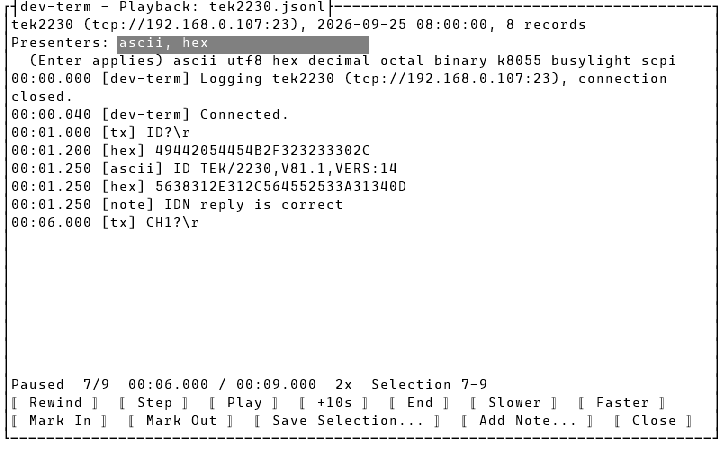
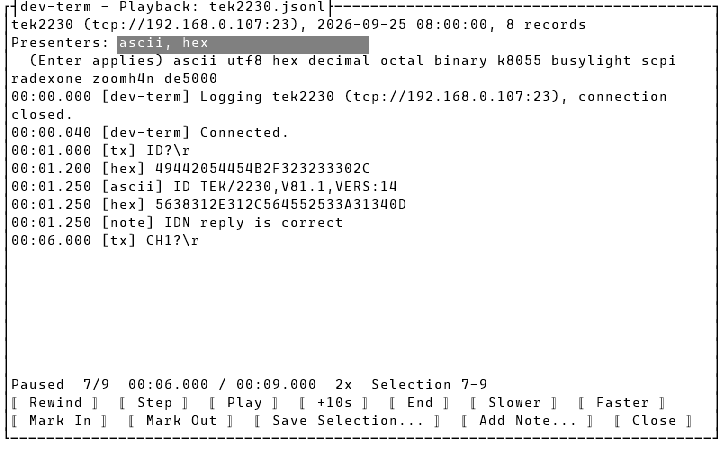
Radex One: add Reset Accumulated command; fix TUI playback layout and WPF combobox test
Adds RadexOneCommand.ResetAccumulated (0x0803), discovered from a user-captured
trace not present in the original reverse-engineering doc. Wired end-to-end
(framer, codec, decoder, control surface, UI button) with 5 new checksum-verified
unit tests (27 total).

Also fixes two unrelated test failures found while verifying the above:
- PlaybackMode's output Editor used a literal Y offset instead of Pos.Bottom(availableLabel),
  which broke once the presenters label grew long enough to wrap to two lines.
- DeviceProfilesWindowTests still asserted the old DisplayMemberPath property after an
  earlier change switched the ports combobox to an ItemTemplate to fix a WPF layout clip.

Documents both gotchas in CLAUDE.md, updates TODO.md and the radex-one-protocol.md proposal,
and adds docs/changes/2026-09-26.md.

Changed region(s): [[0.0, 0.1556, 0.9472, 0.56]]

diff --git a/src/DevTerm.Devices.RadexOne/RadexOneControlSurface.cs b/src/DevTerm.Devices.RadexOne/RadexOneControlSurface.cs
@@ -10,8 +10,8 @@ namespace DevTerm.Devices.RadexOne;
 /// <see cref="Session"/>'s live serial connection (2400 8N1, no handshake — real-hardware confirmed
 /// 2026-09-25 on COM8), per docs/design/proposals/radex-one-protocol.md. The device is a plain
 /// virtual COM port; there is no HID report wrapping (an earlier "confirmed directly" HID assumption
-/// in that doc was wrong). "readData"/"readSerialVersion"/"readSettings" are one-shot queries built
-/// via <see cref="RadexOneExtensionCodec.BuildQuery"/>; their replies arrive asynchronously through
+/// in that doc was wrong). "readData"/"readSerialVersion"/"readSettings"/"resetAccumulated" are
+/// one-shot queries built via <see cref="RadexOneExtensionCodec.BuildQuery"/>; their replies arrive asynchronously through
 /// <see cref="RadexOneDecoder"/> on the session's normal output path, not through this surface.
 /// "alarmMode"/"threshold" only mutate local state; "writeSettings" is the only command that sends a
 /// Write Settings request, and sends it three times in a row per the proposal's documented "must be
@@ -61,6 +61,8 @@ public sealed class RadexOneControlSurface : IControlSurface, ICommandPreview
                 return SendQueryAsync(RadexOneCommand.ReadSerialVersion, cancellationToken);
             case "readSettings":
                 return SendQueryAsync(RadexOneCommand.ReadSettings, cancellationToken);
+            case "resetAccumulated":
+                return SendQueryAsync(RadexOneCommand.ResetAccumulated, cancellationToken, word: 0x0001);
             case "writeSettings":
                 return SendWriteSettingsAsync(cancellationToken);
             default:
@@ -78,14 +80,15 @@ public sealed class RadexOneControlSurface : IControlSurface, ICommandPreview
             "readData" => PreviewQuery(RadexOneCommand.ReadData),
             "readSerialVersion" => PreviewQuery(RadexOneCommand.ReadSerialVersion),
             "readSettings" => PreviewQuery(RadexOneCommand.ReadSettings),
+            "resetAccumulated" => PreviewQuery(RadexOneCommand.ResetAccumulated, word: 0x0001),
             "writeSettings" => PreviewWriteSettings(),
             _ => null,
         };
     }
 
-    private async Task SendQueryAsync(ushort commandType, CancellationToken cancellationToken)
+    private async Task SendQueryAsync(ushort commandType, CancellationToken cancellationToken, ushort word = 0x000C)
     {
-        var report = BuildQueryReport(commandType, TakePacketNumber());
+        var report = BuildQueryReport(commandType, TakePacketNumber(), word);
         await _session.SendAsync(report, cancellationToken).ConfigureAwait(false);
     }
 
@@ -105,11 +108,11 @@ public sealed class RadexOneControlSurface : IControlSurface, ICommandPreview
         }
     }
 
-    private string PreviewQuery(ushort commandType)
+    private string PreviewQuery(ushort commandType, ushort word = 0x000C)
     {
         lock (_stateLock)
         {
-            return CommandPreviewFormat.ToHex(BuildQueryReport(commandType, _nextPacketNumber));
+            return CommandPreviewFormat.ToHex(BuildQueryReport(commandType, _nextPacketNumber, word));
         }
     }
 
@@ -122,8 +125,8 @@ public sealed class RadexOneControlSurface : IControlSurface, ICommandPreview
         }
     }
 
-    private static byte[] BuildQueryReport(ushort commandType, int packetNumber) =>
-        RadexOneFramer.BuildRequest((ushort)packetNumber, RadexOneExtensionCodec.BuildQuery(commandType));
+    private static byte[] BuildQueryReport(ushort commandType, int packetNumber, ushort word = 0x000C) =>
+        RadexOneFramer.BuildRequest((ushort)packetNumber, RadexOneExtensionCodec.BuildQuery(commandType, word));
 
     private int TakePacketNumber()
     {

diff --git a/src/DevTerm.Wpf/DeviceProfilesWindow.xaml.cs b/src/DevTerm.Wpf/DeviceProfilesWindow.xaml.cs
@@ -91,14 +91,18 @@ public partial class DeviceProfilesWindow : Window
         // The detected-device pickers stay hand-built, real WPF bindings to the view model's rich
         // device lists (a port's description-bearing Display over its Name; a live-filtered HID/USBTMC
         // list whose selection survives filtering) - the generic form places, labels and shows/hides
-        // them with their transport like every other field.
-        DetectedPortsBox = new ComboBox { DisplayMemberPath = nameof(SerialPortOption.Display), SelectedValuePath = nameof(SerialPortOption.Name) };
+        // them with their transport like every other field. ItemTemplate (not DisplayMemberPath) so a
+        // real device's long description (e.g. "COM3 — Prolific USB-to-Serial Comm Port") ellipsizes
+        // with a tooltip instead of a hard WPF layout clip - confirmed live: a genuine attached USB-
+        // serial adapter's description overflowed the field column and failed UiLayoutReviewTests'
+        // clip check.
+        DetectedPortsBox = new ComboBox { SelectedValuePath = nameof(SerialPortOption.Name), ItemTemplate = TrimmedDisplayTemplate(nameof(SerialPortOption.Display)) };
         DetectedPortsBox.SetBinding(ItemsControl.ItemsSourceProperty, new Binding(nameof(ConnectionEditorViewModel.SerialPortOptions)));
         DetectedPortsBox.SetBinding(Selector.SelectedValueProperty, new Binding(nameof(ConnectionEditorViewModel.SelectedSerialPort)));
-        DetectedHidDevicesBox = new ComboBox { DisplayMemberPath = nameof(HidDeviceOption.Display) };
+        DetectedHidDevicesBox = new ComboBox { ItemTemplate = TrimmedDisplayTemplate(nameof(HidDeviceOption.Display)) };
         DetectedHidDevicesBox.SetBinding(ItemsControl.ItemsSourceProperty, new Binding(nameof(ConnectionEditorViewModel.HidDeviceOptions)));
         DetectedHidDevicesBox.SetBinding(Selector.SelectedItemProperty, new Binding(nameof(ConnectionEditorViewModel.SelectedHidDevice)));
-        DetectedUsbtmcDevicesBox = new ComboBox { DisplayMemberPath = nameof(UsbtmcDeviceOption.Display) };
+        DetectedUsbtmcDevicesBox = new ComboBox { ItemTemplate = TrimmedDisplayTemplate(nameof(UsbtmcDeviceOption.Display)) };
         DetectedUsbtmcDevicesBox.SetBinding(ItemsControl.ItemsSourceProperty, new Binding(nameof(ConnectionEditorViewModel.UsbtmcDeviceOptions)));
         DetectedUsbtmcDevicesBox.SetBinding(Selector.SelectedItemProperty, new Binding(nameof(ConnectionEditorViewModel.SelectedUsbtmcDevice)));
 
@@ -235,5 +239,15 @@ public partial class DeviceProfilesWindow : Window
         {
             ViewModel.ImportExportPath = dialog.FileName;
         }
+    }
+
+    private static DataTemplate TrimmedDisplayTemplate(string displayPath)
+    {
+        var text = new FrameworkElementFactory(typeof(TextBlock));
+        var binding = new Binding(displayPath);
+        text.SetBinding(TextBlock.TextProperty, binding);
+        text.SetValue(TextBlock.TextTrimmingProperty, TextTrimming.CharacterEllipsis);
+        text.SetBinding(TextBlock.ToolTipProperty, binding);
+        return new DataTemplate { VisualTree = text };
     }
 }

diff --git a/tests/DevTerm.Devices.RadexOne.Tests/RadexOneControlSurfaceTests.cs b/tests/DevTerm.Devices.RadexOne.Tests/RadexOneControlSurfaceTests.cs
@@ -64,6 +64,19 @@ public sealed class RadexOneControlSurfaceTests
     }
 
     [TestMethod]
+    public async Task InvokeAsync_ResetAccumulated_SendsAWrappedQueryWithSecondWordOne()
+    {
+        var (session, transport) = CreateSurfaceSession();
+        var surface = new RadexOneControlSurface(session);
+
+        await surface.InvokeAsync("resetAccumulated", null, TestContext.CancellationToken);
+
+        transport.Verify(t => t.WriteAsync(
+            It.Is<ReadOnlyMemory<byte>>(b => IsWellFormedQueryWithWord(b.ToArray(), RadexOneCommand.ResetAccumulated, 0x0001)),
+            It.IsAny<CancellationToken>()));
+    }
+
+    [TestMethod]
     public async Task InvokeAsync_WriteSettings_SendsTheSameFrameThreeTimes()
     {
         var (session, transport) = CreateSurfaceSession();
@@ -102,6 +115,18 @@ public sealed class RadexOneControlSurfaceTests
     }
 
     [TestMethod]
+    public void PreviewCommand_ResetAccumulated_ShowsTheReportAsHex()
+    {
+        var (session, _) = CreateSurfaceSession();
+        var surface = new RadexOneControlSurface(session);
+
+        var preview = surface.PreviewCommand("resetAccumulated", null);
+
+        Assert.IsNotNull(preview);
+        StringAssert.StartsWith(preview, "7B FF");
+    }
+
+    [TestMethod]
     public void PreviewCommand_StateOnlySetters_AreNull()
     {
         var (session, _) = CreateSurfaceSession();
@@ -116,6 +141,11 @@ public sealed class RadexOneControlSurfaceTests
         && report[0] == 0x7B && report[1] == 0xFF // outbound framer prefix
         && System.Buffers.Binary.BinaryPrimitives.ReadUInt16LittleEndian(report.AsSpan(2, 2)) == 0x0020 // constant outbound type marker
         && System.Buffers.Binary.BinaryPrimitives.ReadUInt16LittleEndian(report.AsSpan(RadexOneFramer.HeaderLength, 2)) == expectedCommandCode;
+
+    private static bool IsWellFormedQueryWithWord(byte[] report, ushort expectedCommandCode, ushort expectedWord) =>
+        IsWellFormedQuery(report, expectedCommandCode)
+        && report.Length >= RadexOneFramer.HeaderLength + 4
+        && System.Buffers.Binary.BinaryPrimitives.ReadUInt16LittleEndian(report.AsSpan(RadexOneFramer.HeaderLength + 2, 2)) == expectedWord;
 
     public required TestContext TestContext { get; set; }
 }

diff --git a/tests/DevTerm.Devices.RadexOne.Tests/RadexOneFramerTests.cs b/tests/DevTerm.Devices.RadexOne.Tests/RadexOneFramerTests.cs
@@ -110,6 +110,41 @@ public sealed class RadexOneFramerTests
     }
 
     [TestMethod]
+    public void BuildRequest_ResetAccumulatedQuery_MatchesAUserCapturedRealHardwareTrace()
+    {
+        // docs/design/proposals/radex-one-protocol.md's "Trace Examples" appendix:
+        // >: 7bff 2000 0600 4e01 0000 0fff 0308 0100 fbf7
+        byte[] expected =
+        [
+            0x7B, 0xFF, 0x20, 0x00, 0x06, 0x00, 0x4E, 0x01, 0x00, 0x00, 0x0F, 0xFF,
+            0x03, 0x08, 0x01, 0x00, 0xFB, 0xF7,
+        ];
+
+        var packet = RadexOneFramer.BuildRequest(0x014E, RadexOneExtensionCodec.BuildQuery(RadexOneCommand.ResetAccumulated, word: 0x0001));
+
+        CollectionAssert.AreEqual(expected, packet);
+    }
+
+    [TestMethod]
+    public void TryParseReply_ResetAccumulatedResponse_MatchesAUserCapturedRealHardwareTrace()
+    {
+        // docs/design/proposals/radex-one-protocol.md's "Trace Examples" appendix:
+        // <: 7aff 2080 0600 4e01 0000 107f 0308 0000 fcf7
+        byte[] reply =
+        [
+            0x7A, 0xFF, 0x20, 0x80, 0x06, 0x00, 0x4E, 0x01, 0x00, 0x00, 0x10, 0x7F,
+            0x03, 0x08, 0x00, 0x00, 0xFC, 0xF7,
+        ];
+
+        var parsed = RadexOneFramer.TryParseReply(reply, out var packetNumber, out var extension);
+
+        Assert.IsTrue(parsed);
+        Assert.AreEqual((ushort)0x014E, packetNumber);
+        Assert.IsTrue(RadexOneExtensionCodec.TryReadCommandCode(extension, out var commandCode));
+        Assert.AreEqual(RadexOneCommand.ResetAccumulated, commandCode);
+    }
+
+    [TestMethod]
     public void TryParseReply_ReadDataResponse_MatchesTheSourceDocsRealHardwareTrace()
     {
         // docs/design/proposals/radex-one-protocol.md's source trace:

diff --git a/src/DevTerm.Devices.RadexOne/RadexOneFramer.cs b/src/DevTerm.Devices.RadexOne/RadexOneFramer.cs
@@ -3,7 +3,7 @@ using System.Buffers.Binary;
 namespace DevTerm.Devices.RadexOne;
 
 /// <summary>
-/// The four Radex One command codes, per docs/design/proposals/radex-one-protocol.md. These live
+/// The five Radex One command codes, per docs/design/proposals/radex-one-protocol.md. These live
 /// inside the framer's Extension field (see <see cref="RadexOneFramer"/>'s remarks) — not, as an
 /// earlier draft of this module assumed, in the outer header's Type field, which is actually a
 /// constant marker shared by every command. A reply echoes the same code as the request that
@@ -15,6 +15,14 @@ public static class RadexOneCommand
     public const ushort ReadSerialVersion = 0x0001;
     public const ushort WriteSettings = 0x0802;
     public const ushort ReadSettings = 0x0801;
+
+    /// <summary>
+    /// Clears the device's accumulated-dose counter. Discovered from a user-captured trace (see
+    /// docs/design/proposals/radex-one-protocol.md's "Trace Examples"), not the original
+    /// reverse-engineering doc — request extension shares <see cref="RadexOneExtensionCodec.BuildQuery"/>'s
+    /// 6-byte query shape but with its second word 0x0001, not the other three queries' 0x000C.
+    /// </summary>
+    public const ushort ResetAccumulated = 0x0803;
 }
 
 /// <summary>

diff --git a/src/DevTerm.Devices.RadexOne/RadexOneUiDefinition.cs b/src/DevTerm.Devices.RadexOne/RadexOneUiDefinition.cs
@@ -4,7 +4,8 @@ namespace DevTerm.Devices.RadexOne;
 
 /// <summary>
 /// The Radex One geiger counter's control panel: one-shot query buttons (data reading,
-/// serial/version, current settings) plus an alarm-settings section that only mutates local state
+/// serial/version, current settings), a reset-accumulated action, plus an alarm-settings section
+/// that only mutates local state
 /// until Write Settings is pressed (see <see cref="RadexOneControlSurface"/> for the write-3x quirk).
 /// Alarm mode options and threshold range are best-effort guesses — see
 /// docs/design/proposals/radex-one-protocol.md's Status section.
@@ -25,6 +26,14 @@ public static class RadexOneUiDefinition
                     new ButtonControl { Id = "readData", Label = "Read Data" },
                     new ButtonControl { Id = "readSerialVersion", Label = "Read Serial/Version" },
                     new ButtonControl { Id = "readSettings", Label = "Read Settings" },
+                ],
+            },
+            new UiSection
+            {
+                Label = "Maintenance",
+                Controls =
+                [
+                    new ButtonControl { Id = "resetAccumulated", Label = "Reset Accumulated" },
                 ],
             },
             new UiSection

diff --git a/src/DevTerm.Devices.RadexOne/RadexOneExtensionCodec.cs b/src/DevTerm.Devices.RadexOne/RadexOneExtensionCodec.cs
@@ -14,13 +14,16 @@ internal static class RadexOneExtensionCodec
 {
     /// <summary>
     /// Read Data / Read Serial+Version / Read Settings requests share this 6-byte shape:
-    /// CommandCode(2) + Reserved(2, always 0x000C) + Checksum(2, covering the first 4 bytes).
+    /// CommandCode(2) + Reserved(2, 0x000C for those three) + Checksum(2, covering the first 4
+    /// bytes). Reset Accumulated (see <see cref="RadexOneCommand.ResetAccumulated"/>) shares the
+    /// same shape but with <paramref name="word"/> = 0x0001 instead — per a user-captured trace,
+    /// not the original reverse-engineering doc.
     /// </summary>
-    public static byte[] BuildQuery(ushort commandCode)
+    public static byte[] BuildQuery(ushort commandCode, ushort word = 0x000C)
     {
         var extension = new byte[6];
         BinaryPrimitives.WriteUInt16LittleEndian(extension, commandCode);
-        BinaryPrimitives.WriteUInt16LittleEndian(extension.AsSpan(2), 0x000C);
+        BinaryPrimitives.WriteUInt16LittleEndian(extension.AsSpan(2), word);
         BinaryPrimitives.WriteUInt16LittleEndian(extension.AsSpan(4), RadexOneFramer.ComputeChecksum(extension.AsSpan(0, 4)));
         return extension;
     }

diff --git a/tests/DevTerm.Wpf.Tests/DeviceProfilesWindowTests.cs b/tests/DevTerm.Wpf.Tests/DeviceProfilesWindowTests.cs
@@ -344,8 +344,8 @@ public sealed class DeviceProfilesWindowTests
 
                 Assert.AreSame(window.ViewModel.SerialPortOptions, window.DetectedPortsBox.ItemsSource);
 
-                Assert.AreEqual("Display", window.DetectedPortsBox.DisplayMemberPath,
-                    "The picker shows each port's description-bearing Display text...");
+                Assert.IsNotNull(window.DetectedPortsBox.ItemTemplate,
+                    "The picker shows each port's description-bearing Display text, trimmed via an ItemTemplate rather than DisplayMemberPath (a long real-hardware description would otherwise clip the ComboBox — see CLAUDE.md).");
                 Assert.AreEqual("Name", window.DetectedPortsBox.SelectedValuePath,
                     "...while the value it binds to SelectedSerialPort (and so Port) is the short Name.");
 

diff --git a/tests/DevTerm.Devices.RadexOne.Tests/RadexOneDecoderTests.cs b/tests/DevTerm.Devices.RadexOne.Tests/RadexOneDecoderTests.cs
@@ -66,6 +66,20 @@ public sealed class RadexOneDecoderTests
     }
 
     [TestMethod]
+    public void Render_WithResetAccumulatedReply_RendersAcknowledgement()
+    {
+        var decoder = new RadexOneDecoder();
+        var extension = new byte[6];
+        System.Buffers.Binary.BinaryPrimitives.WriteUInt16LittleEndian(extension, RadexOneCommand.ResetAccumulated);
+        var report = RadexOneFramer.BuildReply(1, extension);
+
+        var lines = decoder.Render(new ReadOnlySequence<byte>(report));
+
+        Assert.HasCount(1, lines);
+        Assert.AreEqual("RADEX-ONE: reset accumulated acknowledged", lines[0]);
+    }
+
+    [TestMethod]
     public void Render_WithBadChecksum_ProducesADiagnosticLineInsteadOfThrowing()
     {
         var decoder = new RadexOneDecoder();

diff --git a/src/DevTerm.Devices.RadexOne/RadexOneDecoder.cs b/src/DevTerm.Devices.RadexOne/RadexOneDecoder.cs
@@ -97,6 +97,7 @@ public sealed class RadexOneDecoder : IPresenter
             RadexOneCommand.ReadSettings when RadexOneExtensionCodec.TryParseReadSettings(extension, out var alarmMode, out var threshold) =>
                 FormatSettings(alarmMode, threshold),
             RadexOneCommand.WriteSettings => "RADEX-ONE: write settings acknowledged",
+            RadexOneCommand.ResetAccumulated => "RADEX-ONE: reset accumulated acknowledged",
             _ => $"RADEX-ONE: reply command 0x{commandCode:X4}, {extension.Length} byte(s)",
         };
     }

diff --git a/src/DevTerm.Console/PlaybackMode.cs b/src/DevTerm.Console/PlaybackMode.cs
@@ -117,7 +117,7 @@ public static class PlaybackMode
         var output = new Editor
         {
             X = 0,
-            Y = 3,
+            Y = Pos.Bottom(availableLabel),
             Width = Dim.Fill(),
             Height = Dim.Fill(3),
             ReadOnly = true,

diff --git a/docs/design/proposals/radex-one-protocol.md b/docs/design/proposals/radex-one-protocol.md
@@ -10,7 +10,8 @@ as prior art:
 - [`shared/projects/radex-one-protocol-reverse-engineering/README.md`](https://github.com/mwwhited-notes/shared/tree/main/projects/radex-one-protocol-reverse-engineering) — complete, finished protocol reverse-engineering writeup (status: **Completed**)
 
 This source project is a finished reverse-engineering effort with a fully documented binary
-framing, checksum, and four command types. **2026-09-25: confirmed against a real device on
+framing, checksum, and four command types (a fifth, Reset Accumulated, turned up later in a
+separate user-captured trace — see "Trace Examples" below). **2026-09-25: confirmed against a real device on
 COM8 that the source doc's original transport claim (a plain virtual COM port, 2400 8-N-1) was
 right all along** — see "Device" below for how an earlier draft of this doc got that backwards.
 
@@ -48,7 +49,7 @@ What's still true and still worth keeping about this protocol:
   Read Serial/Version) *and* a control surface (Write Settings — alarm mode + threshold), so this
   doubles as a worked example for [device-control-modules.md](../device-control-modules.md) for a
   genuinely binary, non-textual protocol.
-- **Small and self-contained** — four command types, no chaining, no composite/multi-channel
+- **Small and self-contained** — five command types, no chaining, no composite/multi-channel
   demuxing needed.
 
 ## Protocol summary
@@ -93,6 +94,7 @@ examples byte-for-byte rather than trusting the prose field list:
 | `0x0001` | Read Serial/Version | Query → reply | Variable-length reply, e.g. `SN: 180620-0840-008344 v1.8` |
 | `0x0802` | Write Settings | Command → ack | Sets alarm mode (vibration/audio) + threshold; **must be sent 3× for the device to accept it** |
 | `0x0801` | Read Settings | Query → reply | Reads back current alarm mode + threshold |
+| `0x0803` | Reset Accumulated | Command → ack | Clears the accumulated-dose counter; found in a later user-captured trace, not the original source doc |
 
 The 3×-repeat-to-confirm quirk on Write Settings is the kind of real-device gotcha worth carrying
 into the control-surface implementation directly (a naive one-shot "Set Threshold" command would
@@ -102,7 +104,9 @@ silently not take effect).
 trace except where noted:
 
 - **Query request** (Read Data / Read Serial+Version / Read Settings), 6 bytes:
-  `CommandCode(2) + Reserved(2, 0x000C) + Checksum(2)`.
+  `CommandCode(2) + Reserved(2, 0x000C) + Checksum(2)`. **Reset Accumulated** shares this exact
+  6-byte shape but with the second word `0x0001` instead of `0x000C` — verified byte-for-byte
+  against the "reset accumulated" trace below.
 - **Write Settings request**, 16 bytes:
   `CommandCode(2) + Reserved(2, 0x000E) + TargetValue(2, 0x0005) + ZeroReserved(2) +
   AlarmSetting(1) + Threshold(2, LE, byte-unaligned) + ZeroReserved(3) + Checksum(2)`.
@@ -110,6 +114,7 @@ trace except where noted:
   `CommandCode(2) + Reserved(2) + Reserved(2, 0x000C) + Reserved(2) + Ambient(2) + Reserved(2) +
   Accumulated(2) + Reserved(2) + CPM(2) + Reserved(2) + Checksum(2)`.
 - **Write Settings ack**, 6 bytes: `CommandCode(2) echo + ZeroReserved(2) + Checksum(2)`.
+- **Reset Accumulated ack**, 6 bytes — identical shape to the Write Settings ack above.
 - **Read Settings response**, 16 bytes — same shape as the Write Settings request, minus the
   leading `0x000E` field (replaced by a zero word).
 - **Read Serial/Version response** — partially unresolved: the source doc's own reserved-byte
@@ -194,6 +199,14 @@ against the source doc's own real-hardware trace examples) — full solution bui
 whole `TestCategory=Unit` suite passes. **Still pending: a fresh `RealHardwareRadexOneTests` run
 against the actual device on COM8** to confirm it now replies, now that both the transport and the
 packet-layout bugs are fixed.
+
+**2026-09-26: added the fifth command, Reset Accumulated (`0x0803`)**, from a user-captured trace
+(see "Trace Examples" below) that wasn't in the original source doc — `RadexOneCommand.ResetAccumulated`,
+a `word` parameter on `RadexOneExtensionCodec.BuildQuery` (defaults to `0x000C`, `0x0001` for this
+command), a decoder ack branch, a `"resetAccumulated"` control-surface action/preview, and a
+"Maintenance" UI section with a "Reset Accumulated" button. Checksum-verified byte-for-byte against
+the new trace (both directions); five more unit tests added (27 total). Not yet run against real
+hardware.
 
 ## Open questions
 
